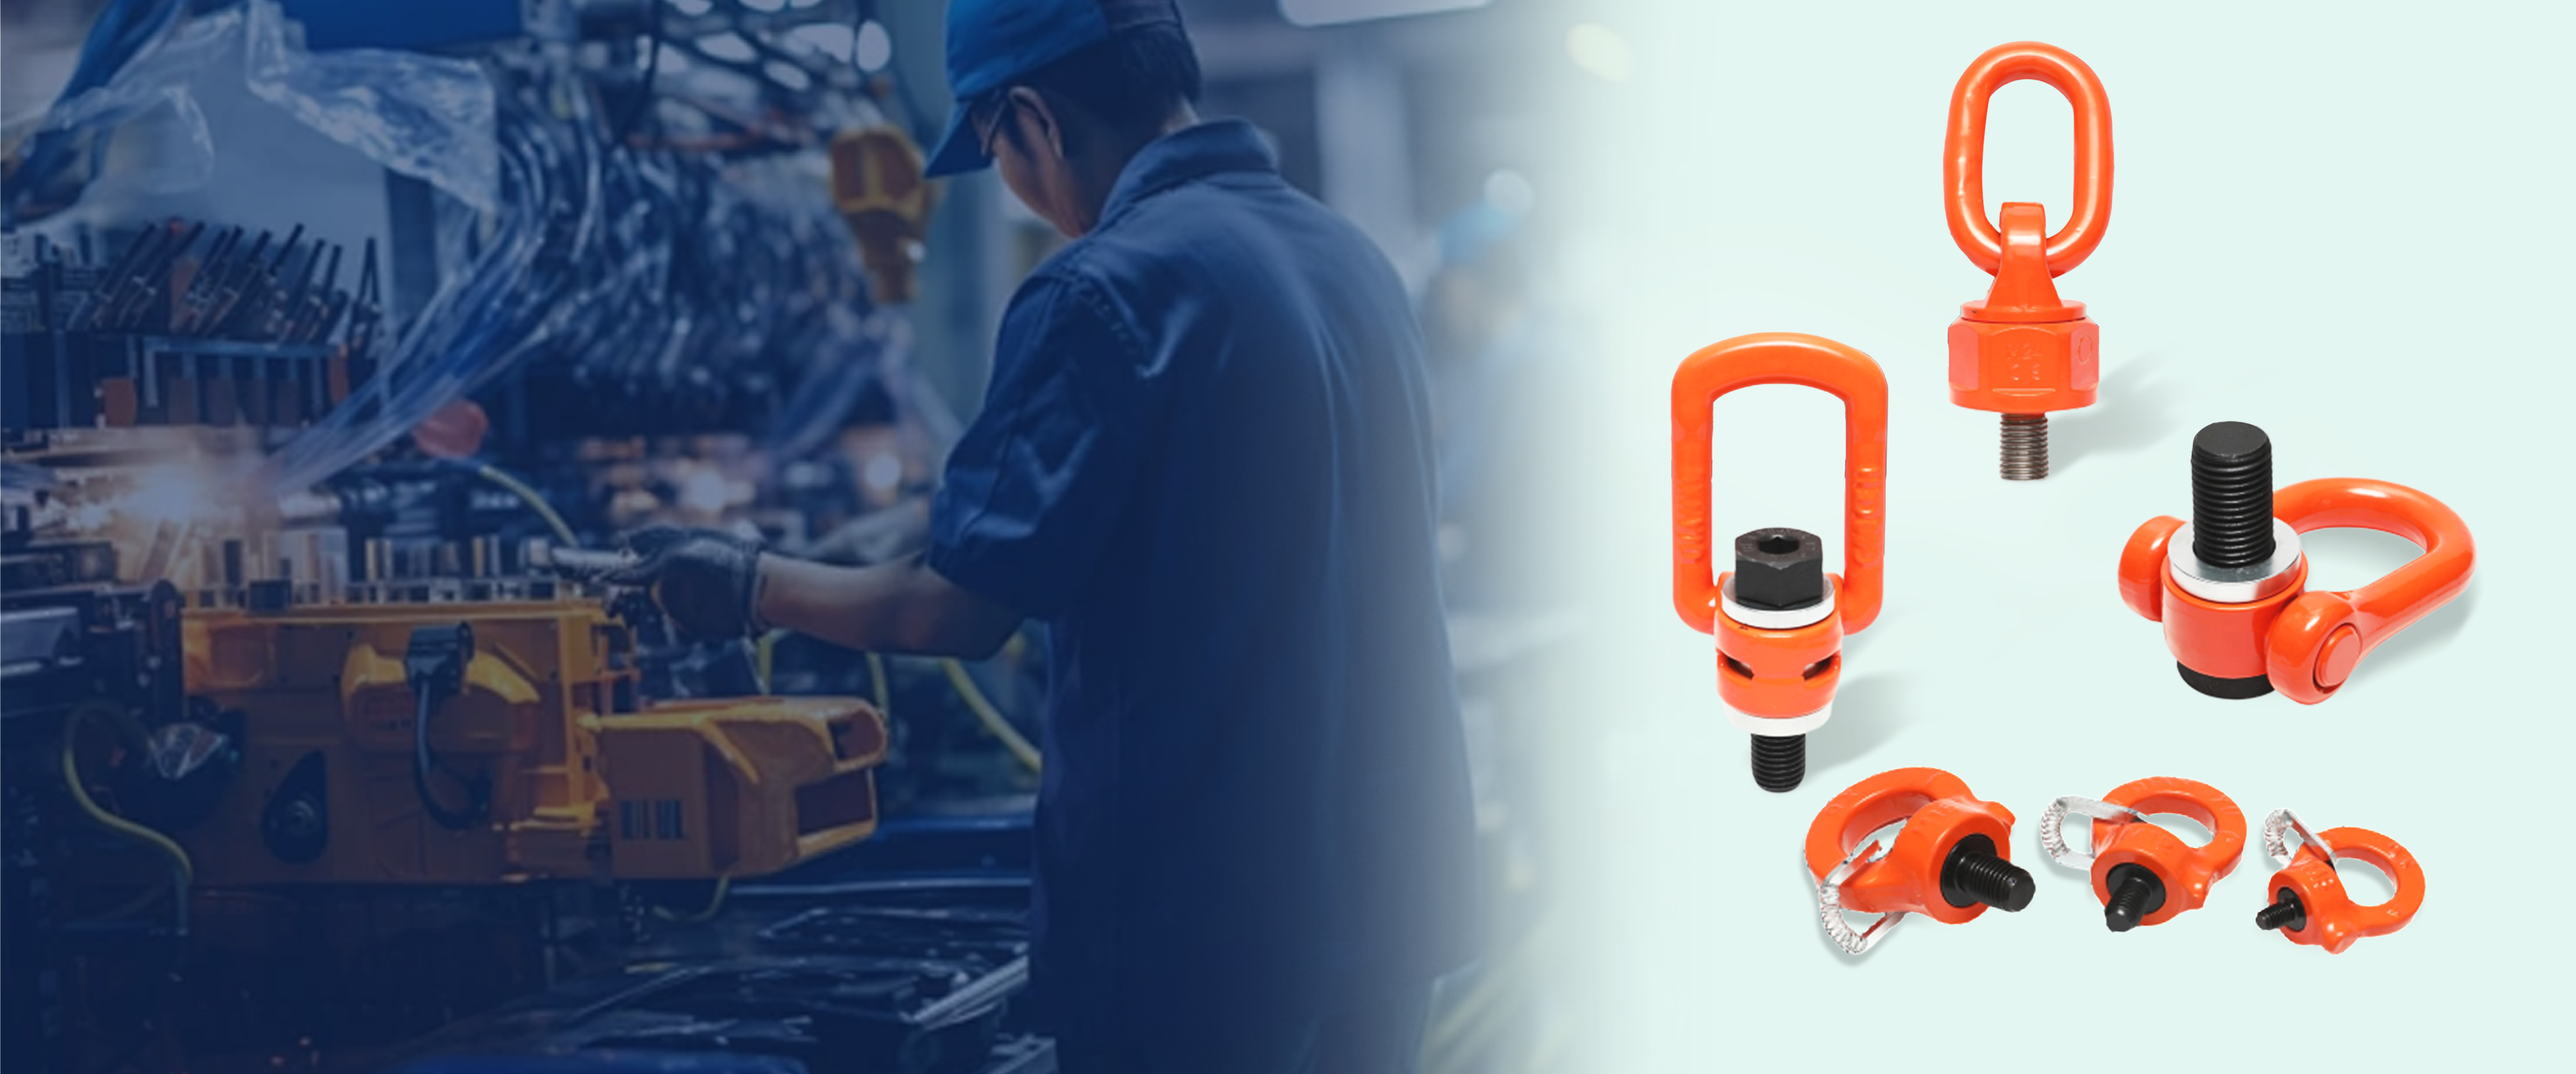
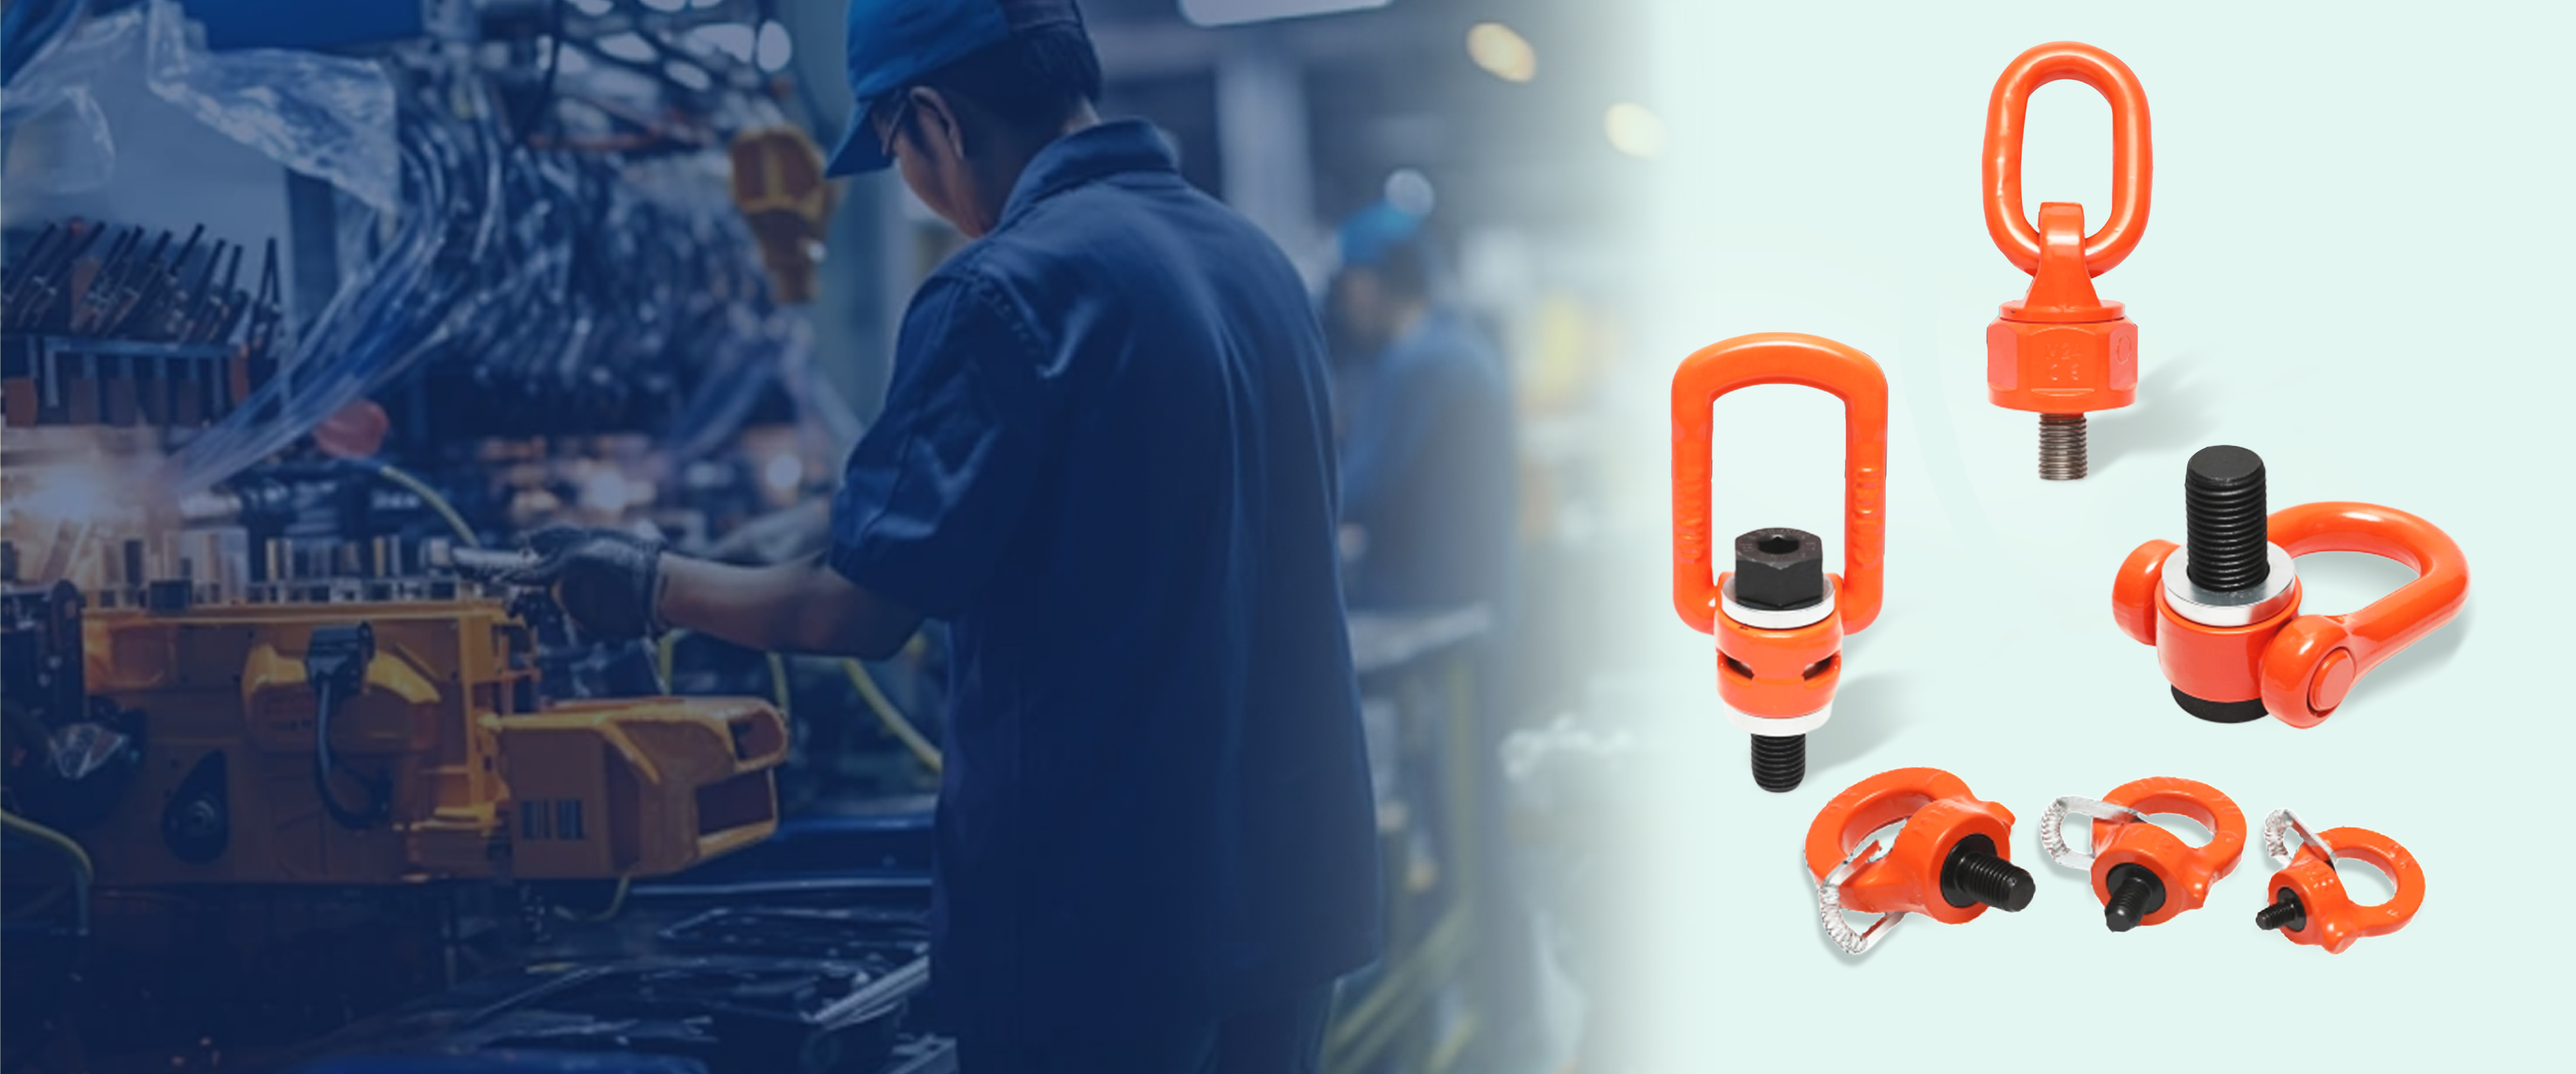
背景图优化，主页去掉第三张图

diff --git a/index.html b/index.html
@@ -113,16 +113,6 @@
               </div>
             </div>
           </div>
-          <div class="swiper-slide swiper-slide-2" data-slide-bg="images/baner_3.jpg">
-            <div class="swiper-slide-caption section-md text-center">
-              <div class="container">
-                <h2 class="swiper-title-1" data-caption-animate="fadeInLeft" data-caption-delay="100">权威CE认证</h2>
-                <h5 class="swiper-title-2" data-caption-animate="fadeInRight" data-caption-delay="250">Authoritative CE Certification
-<br class="d-none d-md-block">严控品质通过多项认证，为起吊安全保驾护航.
-                </h5>
-              </div>
-            </div>
-          </div>
         </div>
         <!-- Swiper Pagination-->
         <div class="swiper-pagination"></div>
